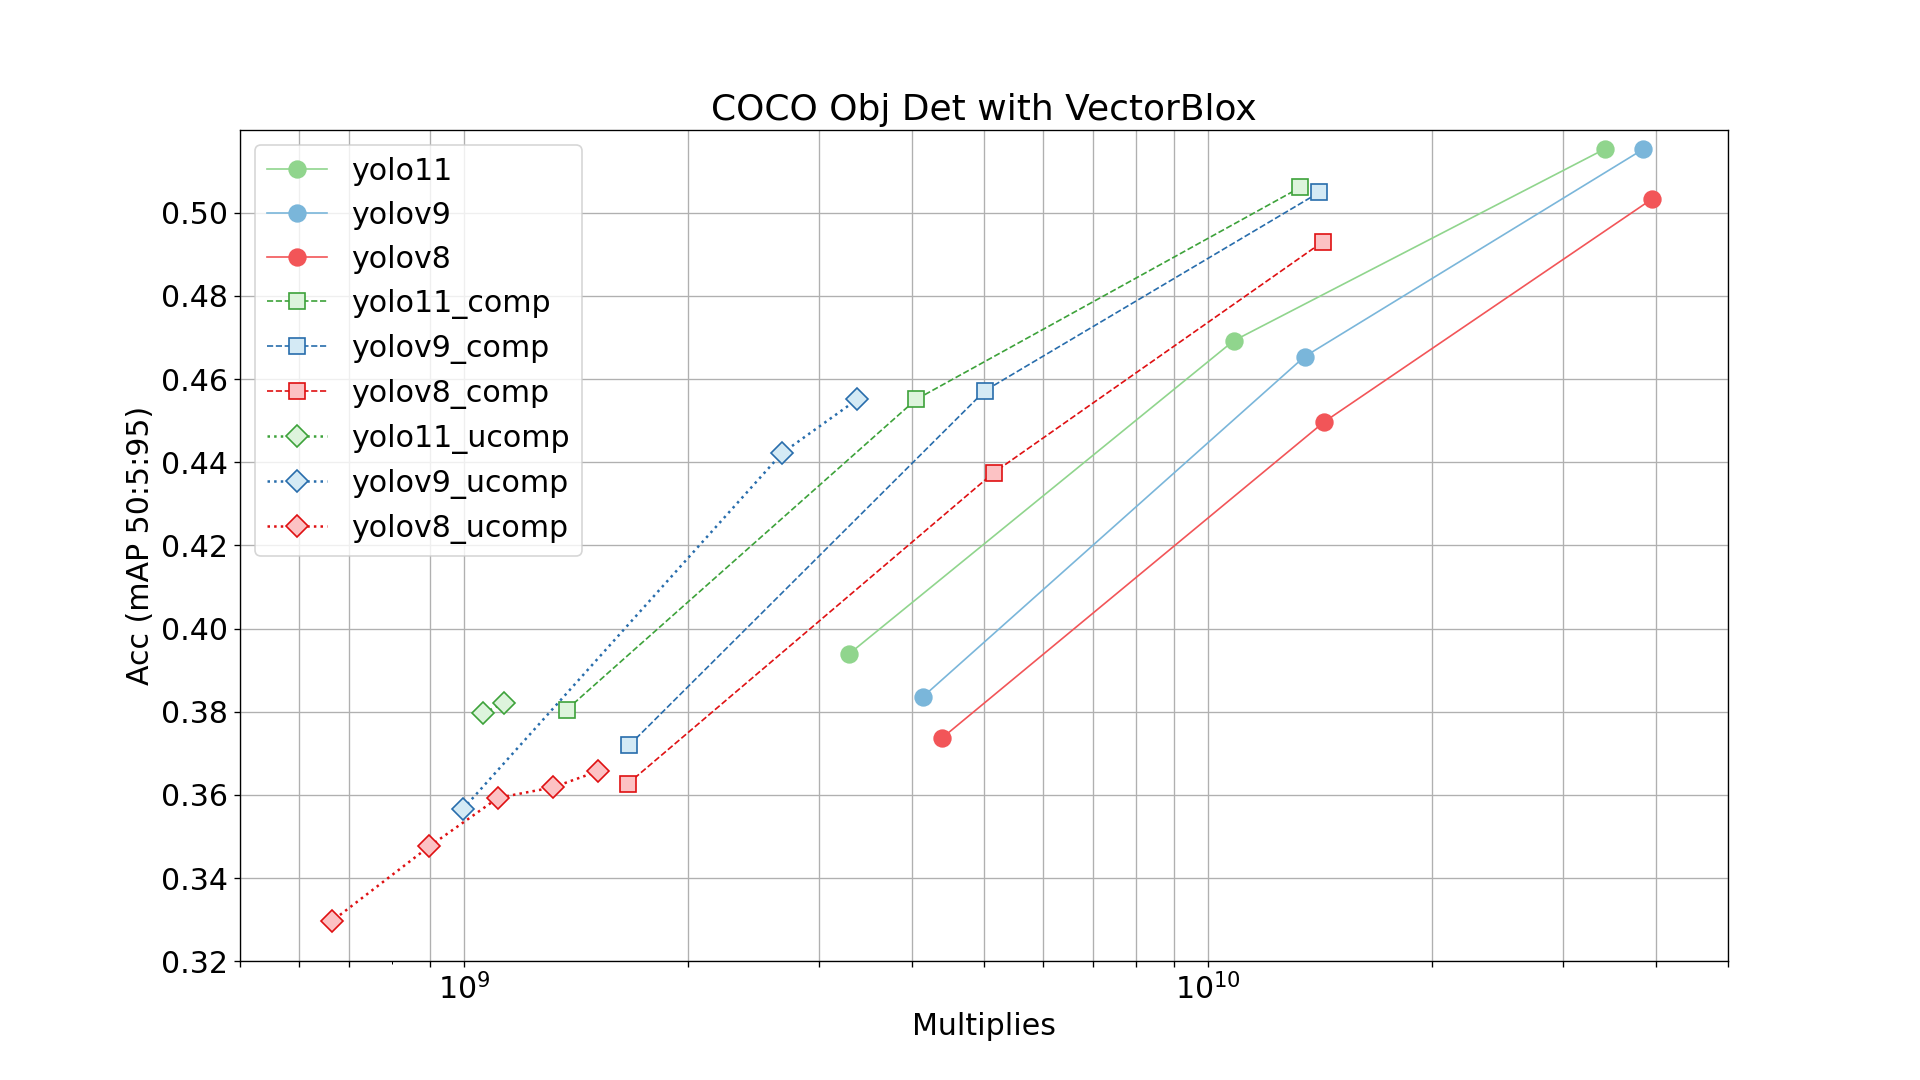
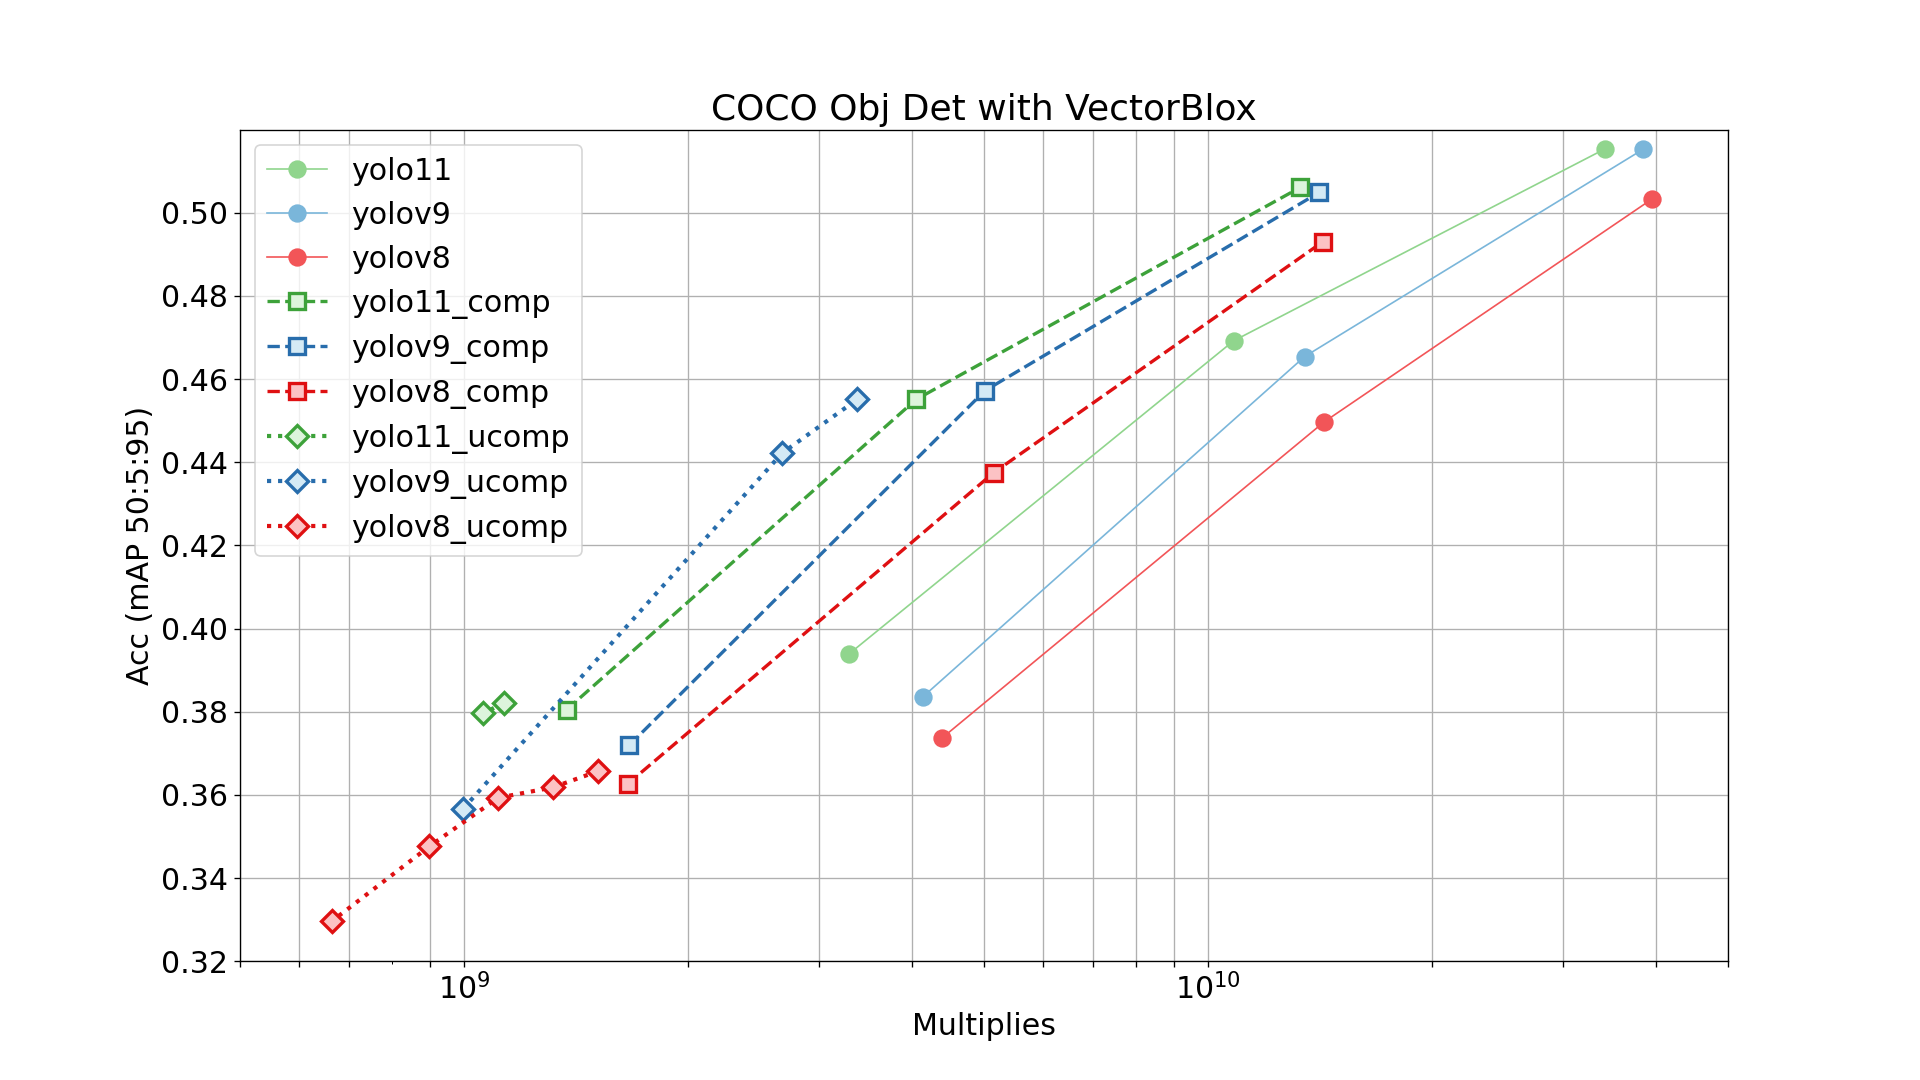
adding licenses

diff --git a/LICENSE.md b/LICENSE.md
@@ -1,0 +1,17 @@
+# VectorBlox Compression Library License
+
+Copyright © 2026 Microchip Technology Inc. and its subsidiaries. All rights reserved.
+
+
+Subject to your compliance with these terms, you may use this Microchip software and any
+derivatives exclusively with Microchip products. You are responsible for complying with
+third party license terms applicable to your use of third party software (including open
+source software) that may accompany this Microchip software. SOFTWARE IS “AS IS.” NO
+WARRANTIES, WHETHER EXPRESS, IMPLIED OR STATUTORY, APPLY TO THIS SOFTWARE, INCLUDING ANY
+IMPLIED WARRANTIES OF NON-INFRINGEMENT, MERCHANTABILITY, OR FITNESS FOR A PARTICULAR PURPOSE.
+IN NO EVENT WILL MICROCHIP BE LIABLE FOR ANY INDIRECT, SPECIAL, PUNITIVE, INCIDENTAL OR
+CONSEQUENTIAL LOSS, DAMAGE, COST OR EXPENSE OF ANY KIND WHATSOEVER RELATED TO THE SOFTWARE,
+HOWEVER CAUSED, EVEN IF MICROCHIP HAS BEEN ADVISED OF THE POSSIBILITY OR THE DAMAGES ARE
+FORESEEABLE. TO THE FULLEST EXTENT ALLOWED BY LAW, MICROCHIP’S TOTAL LIABILITY ON ALL CLAIMS
+RELATED TO THE SOFTWARE WILL NOT EXCEED AMOUNT OF FEES, IF ANY, YOU PAID DIRECTLY TO
+MICROCHIP FOR THIS SOFTWARE.

diff --git a/THIRD-PARTY-LICENSES.md b/THIRD-PARTY-LICENSES.md
@@ -1,0 +1,25 @@
+# Third-Party Software Notices and Licenses
+
+The VectorBlox Compression library depends on the following third-party software
+components. Each component is subject to its own license terms as described
+below.
+
+---
+
+## Python Package Dependencies
+
+The following Python packages are required as dependencies (not bundled in
+source). Their licenses are listed here for informational purposes.
+
+| Package | PyPI Name | License |
+|---------|-----------|---------|
+| torch (PyTorch) | torch | BSD-3-Clause |
+| numpy | numpy | BSD-3-Clause |
+
+---
+
+## Microchip Technology Inc.
+
+Copyright (c) 2026 Microchip Technology Inc. All rights reserved.
+
+For the VectorBlox Compression proprietary components, see [LICENSE.md](LICENSE.md).
